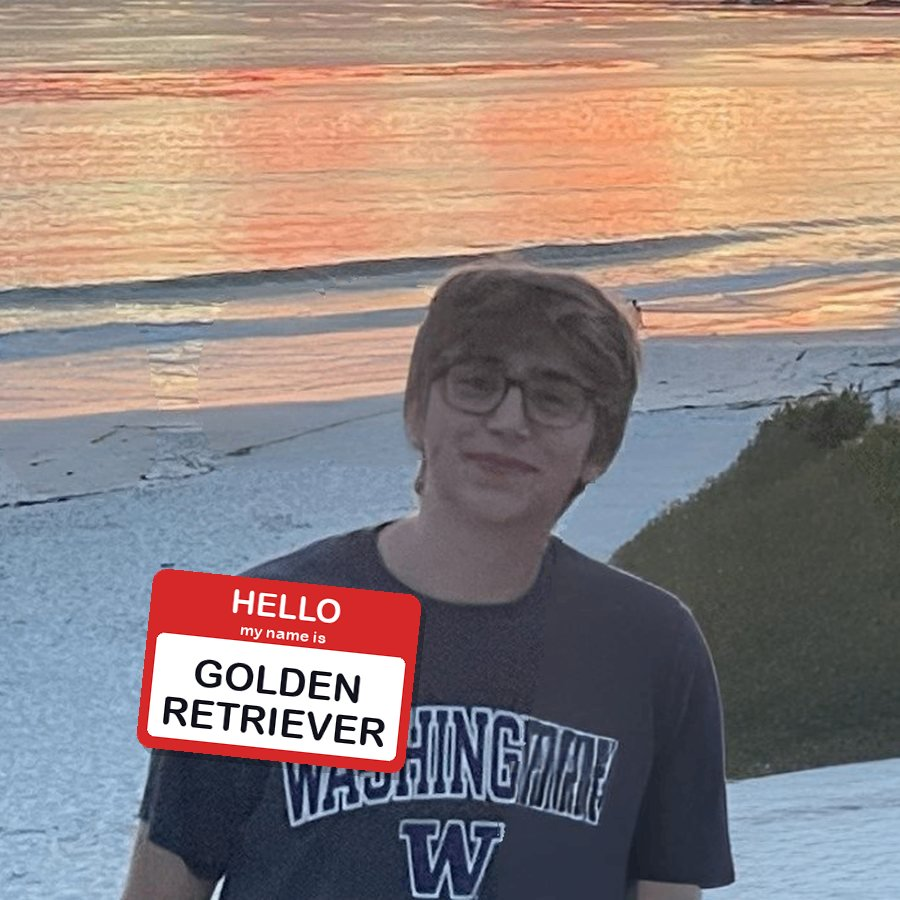
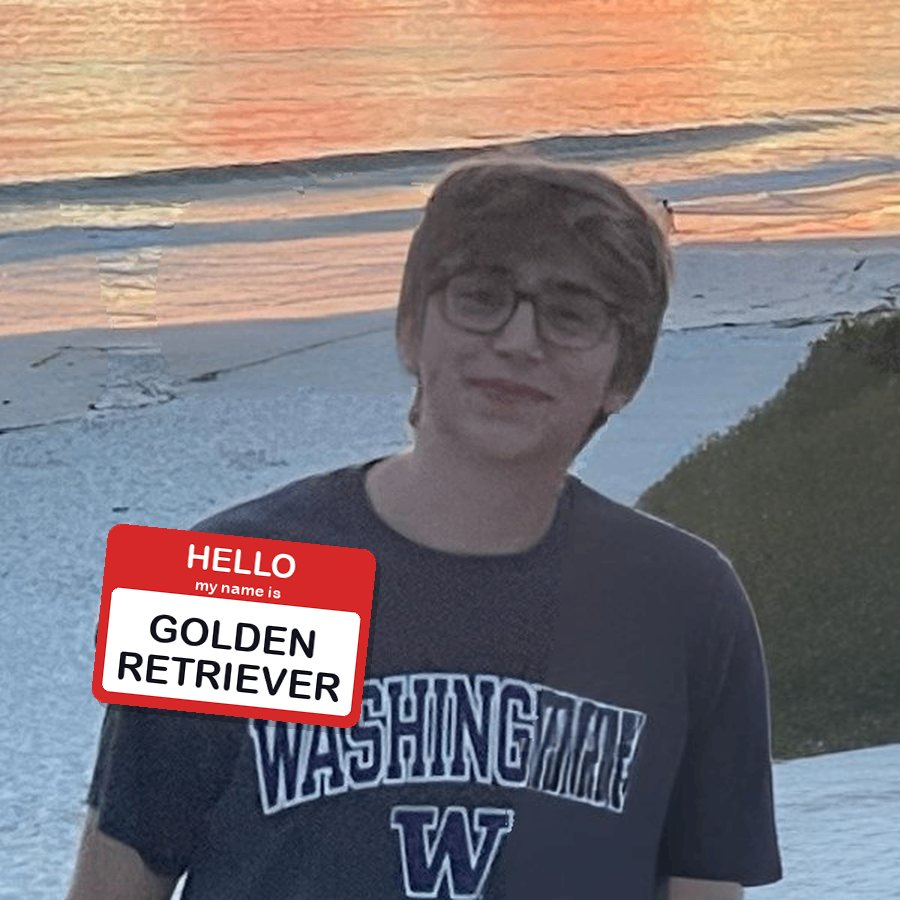
profile photo: zoom in more, shift up

diff --git a/manim/clip_attack.py b/manim/clip_attack.py
@@ -19,7 +19,7 @@ from transformers import CLIPModel, CLIPProcessor
 ROOT = Path(__file__).resolve().parents[1]
 # photo id -> (file, where the name tag goes as fractions of width/height)
 PHOTOS = {
-    "beach": (ROOT / "assets/img/prof_pic_beach.jpg", (0.15, 0.63)),
+    "beach": (ROOT / "assets/img/prof_pic_beach.jpg", (0.10, 0.58)),
 }
 OUT_IMG = ROOT / "assets/img/attack"
 OUT_JSON = ROOT / "_data/clip_attack.json"
